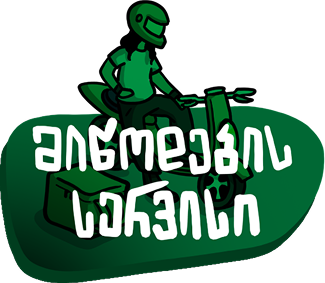
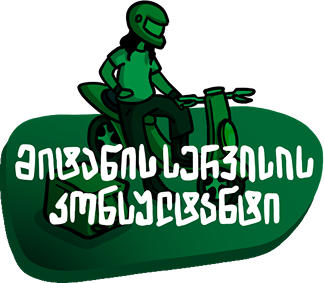
Enable delivery card with new hover art

diff --git a/landing-app/src/data/heroItems.ts b/landing-app/src/data/heroItems.ts
@@ -252,8 +252,17 @@ export const heroItems: HeroItem[] = [
     desktopClass: "left-[10%] top-[48%] w-[16%]",
     mobileLightSrc: CourierMobile,
     mobileHoverLightSrc: DeliveryHoverMobile,
-    mobileHoverDarkSrc: DeliveryHoverMobileDark,
+    mobileHoverDarkSrc: DeliveryHoverDark,
     mobileClass: "left-[0%] top-[32%] w-[29%]",
+    card: {
+      image: ServiceCard,
+      heading: "\u10e1\u10d4\u10e0\u10d5\u10d8\u10e1\u10d8",
+      points: [
+        "\u10d9\u10dd\u10dc\u10e1\u10e3\u10da\u10e2\u10d0\u10dc\u10e2\u10d8",
+        "\u10da\u10d0\u10e1\u10d8 \u10ea\u10d5\u10d4\u10da\u10d8\u10e1 \u10d9\u10dd\u10dc\u10e1\u10e3\u10da\u10e2\u10d0\u10dc\u10e2\u10d8",
+        "\u10db\u10d8\u10d7\u10d0\u10dc\u10d8\u10e1 \u10e1\u10d4\u10e0\u10d5\u10d8\u10e1\u10d8\u10e1 \u10d9\u10dd\u10dc\u10e1\u10e3\u10da\u10e2\u10d0\u10dc\u10e2\u10d8",
+      ],
+    },
   },
 ];
 
